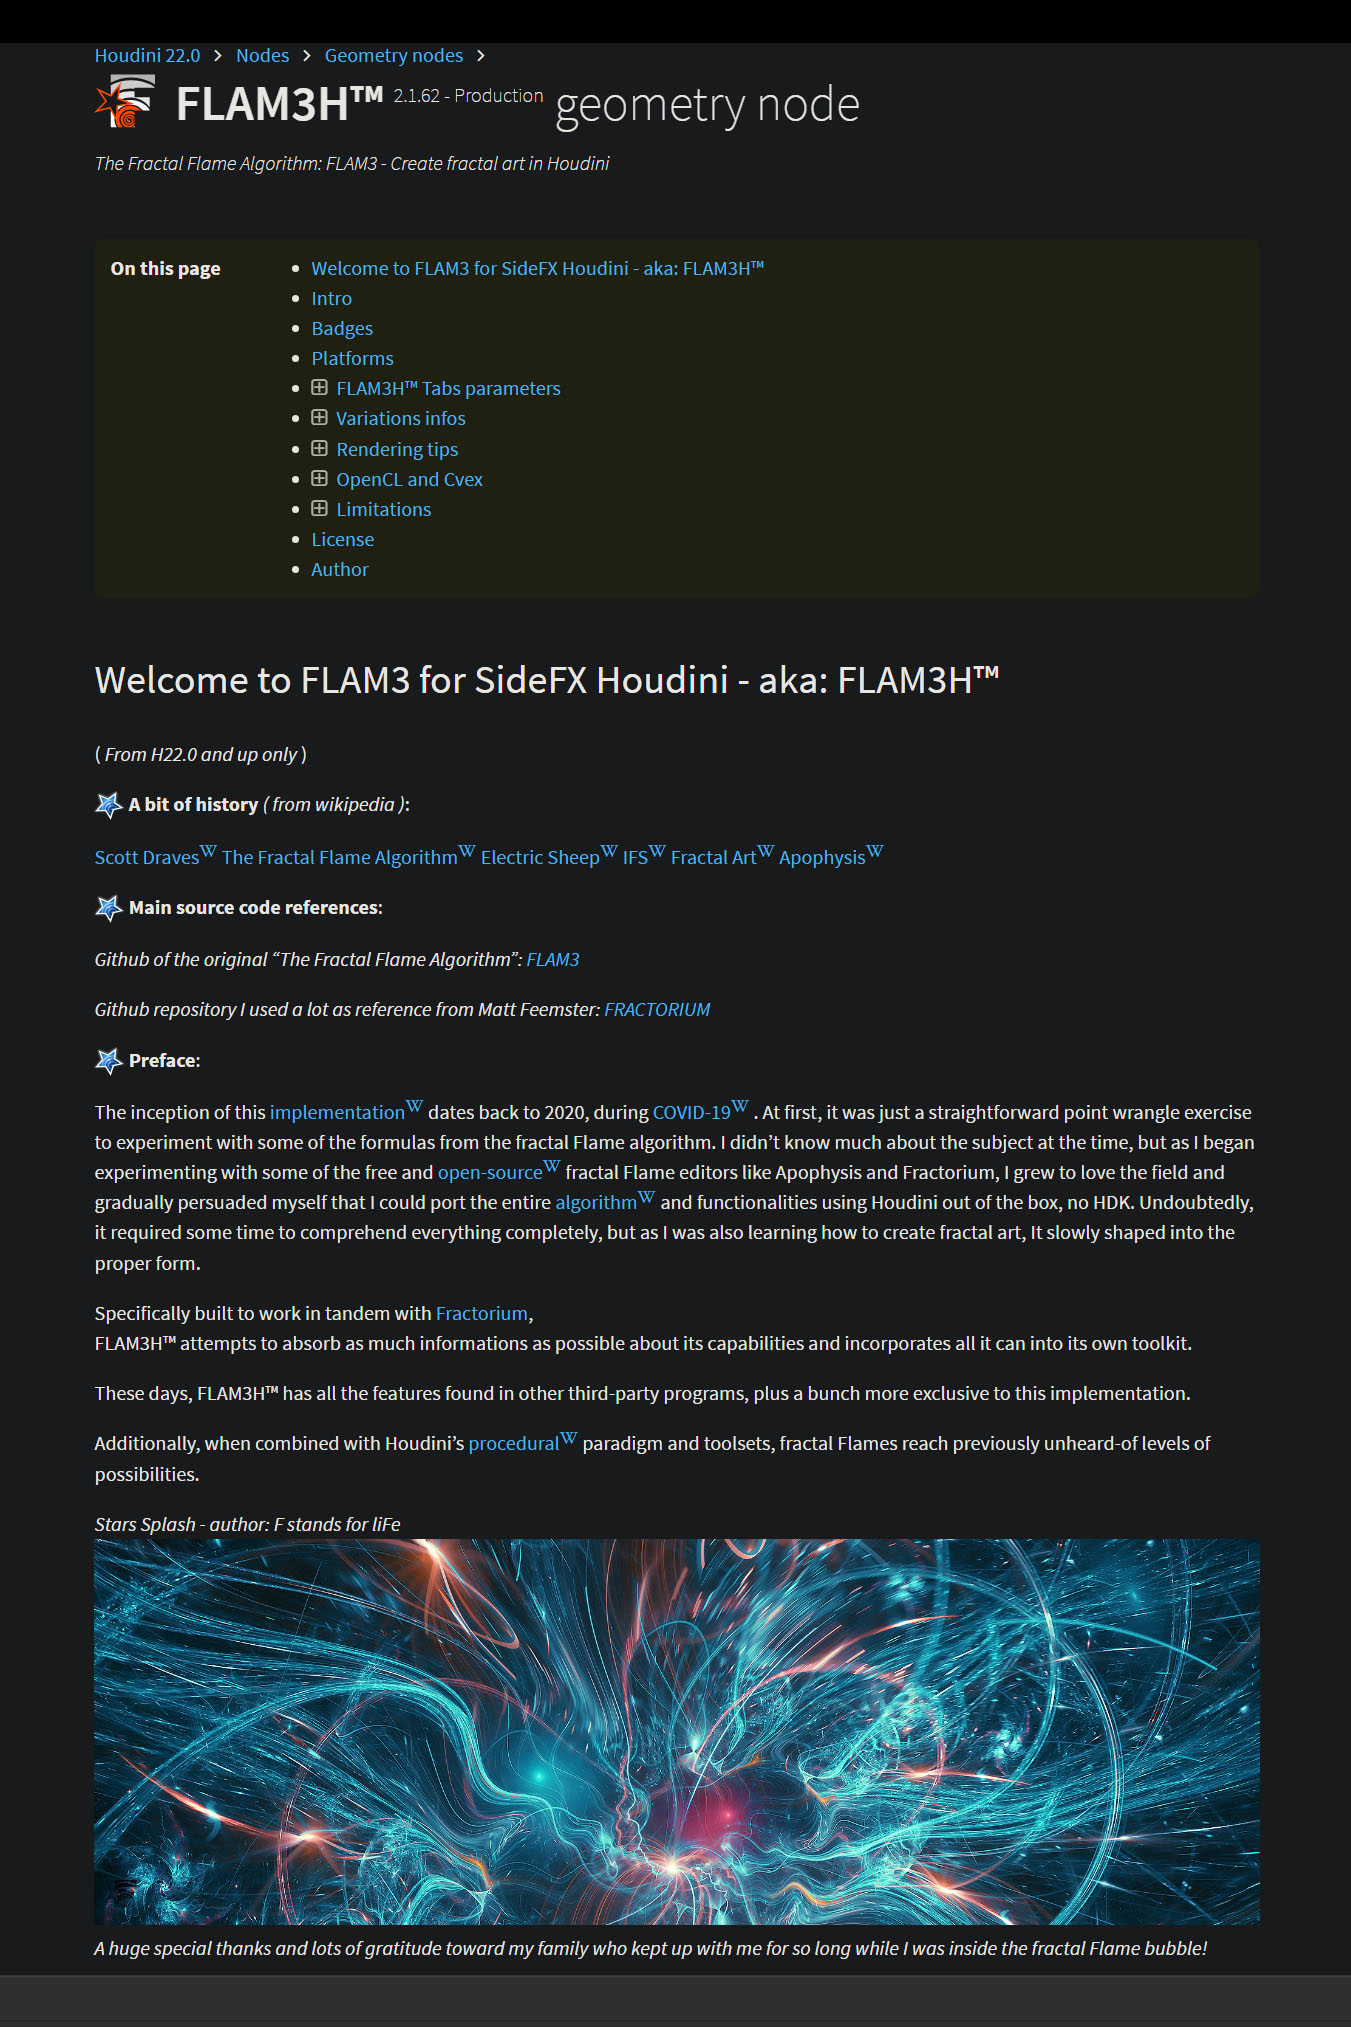
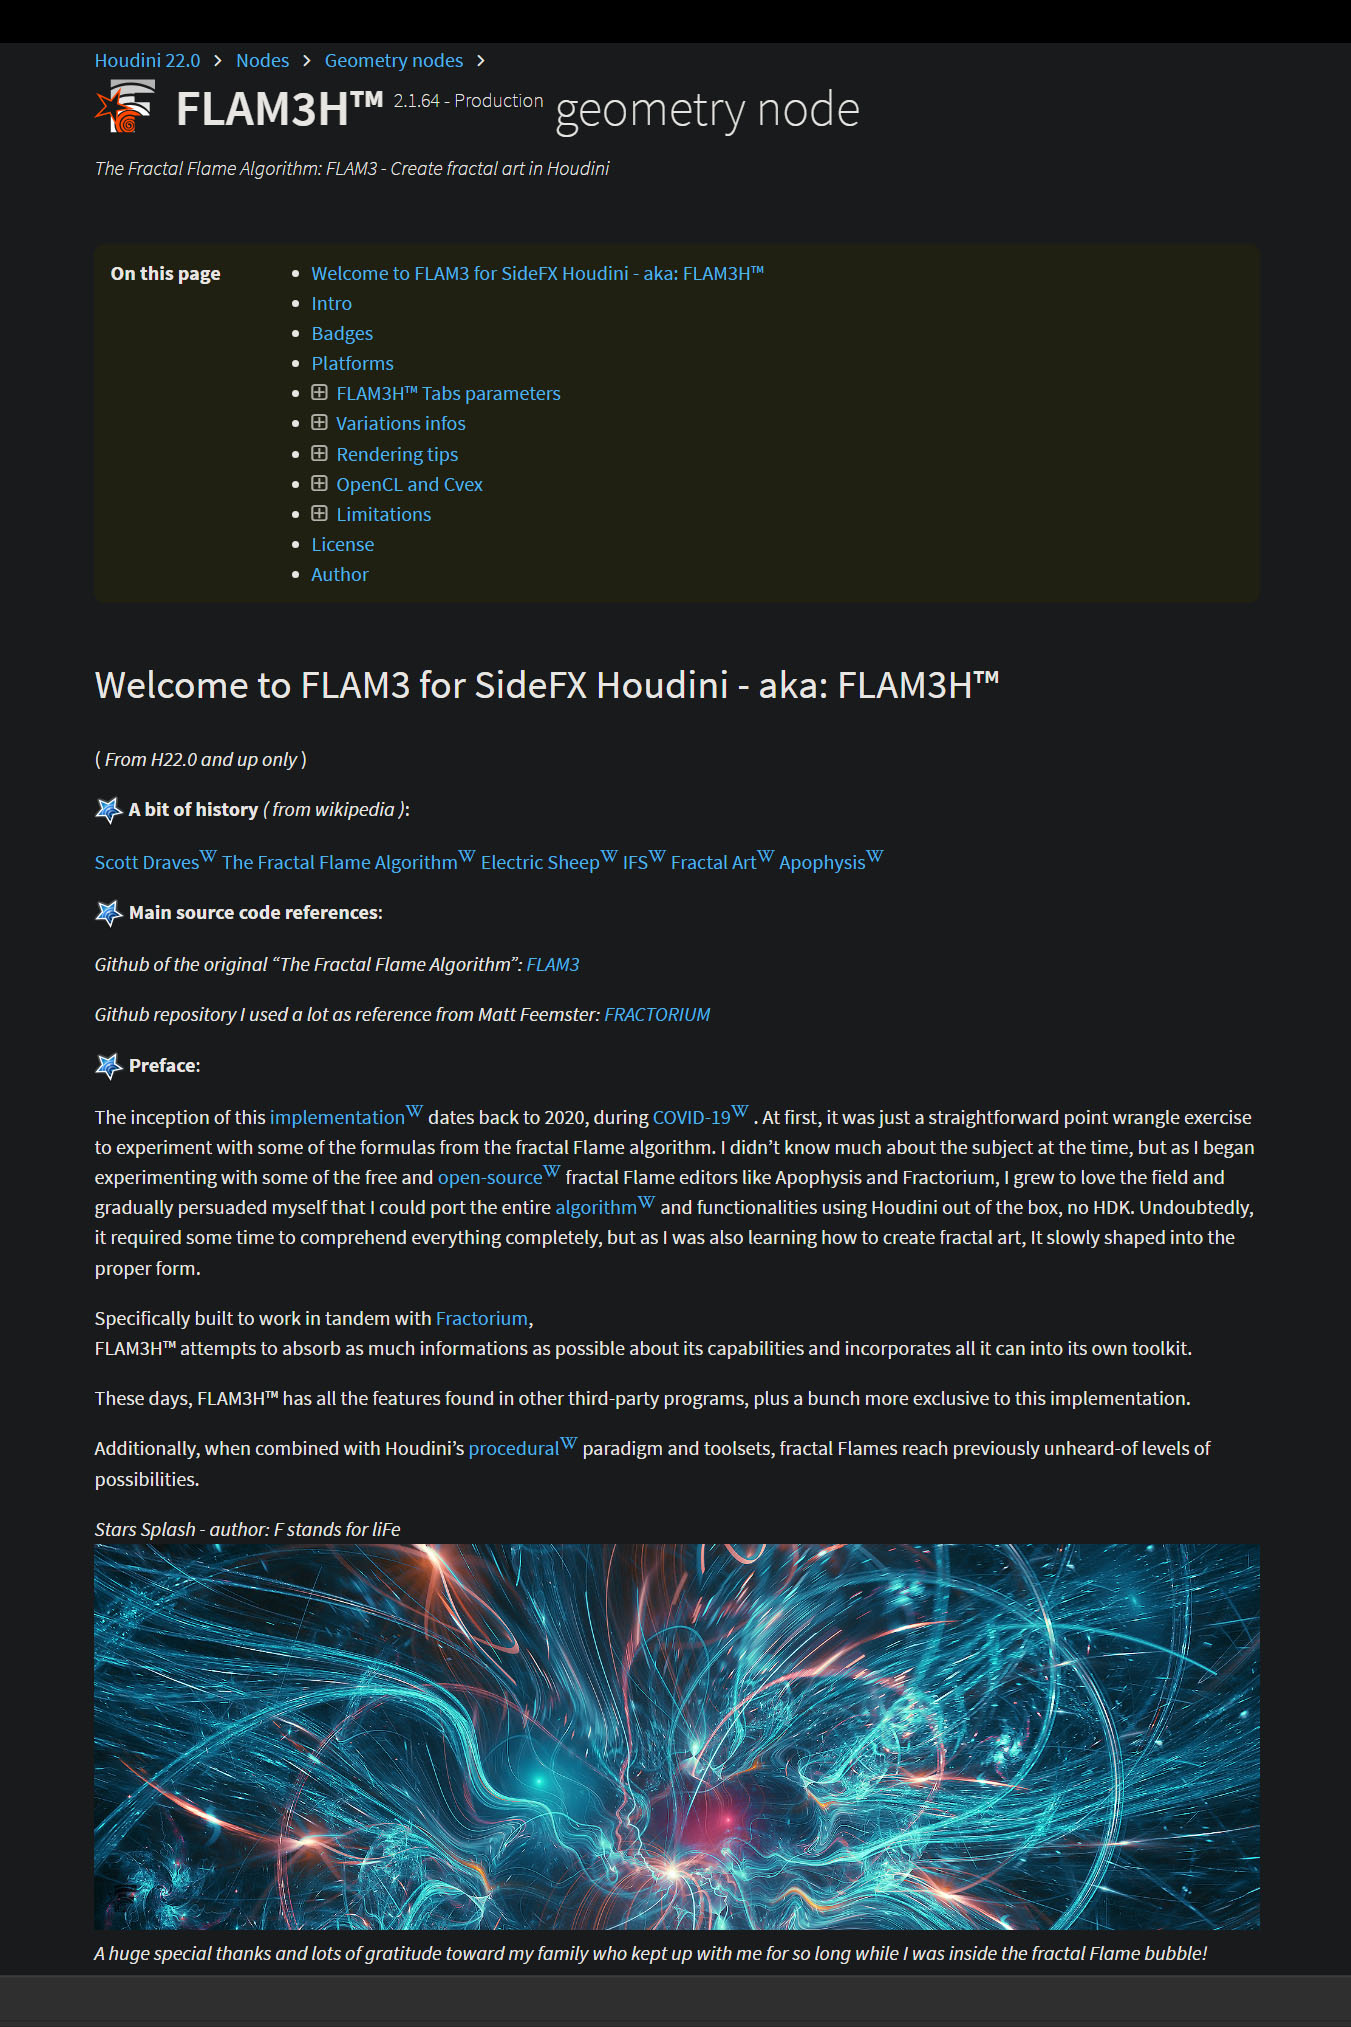
F3H-363 v2.1.64 indie (Release)

diff --git a/RELEASE_HISTORY.md b/RELEASE_HISTORY.md
@@ -51,6 +51,27 @@ They are all available in this Github repository.
 <br>
 <br>
 
+## <img width="24" height="24" src="./icons/iconSVGR.svg" /> [<ins>v2.1.64 indie</ins>](https://github.com/alexnardini/FLAM3_for_SideFX_Houdini/releases/tag/v2.1.64)  ##
+
+#### FLAM3H™ v2.1.64 indie -> H22.0 UP</br>FLAM3H™ v2.1.10 indie -> H21.0</br>FLAM3H™ v2.0.76 indie -> H20.5</br>FLAM3H™ v1.9.89 indie -> H19.0 to H20 ####
+
+_This update require a restart of Houdini to fully pickup the changes_.
+
+**Known Issue (Houdini 22.0)**: <i>`an issue in H22.0 allows parameters with a range set (unlocked) to spontaneously alter their slider ranges, affecting the UI/UX. This has been logged with SideFX` ( <u>**`#159157`**</u> ). `Development on the H22.0 branch continues. For immediate stability, please use FLAM3H™ for H21.0 version.`</i>
+
+- **Small fixes/improvements as part of an ongoing polishing pass**
+
+
+
+<br>
+<br>
+
+
+
+
+
+
+
 ## <img width="24" height="24" src="./icons/iconSVGR.svg" /> [<ins>v2.1.62 indie</ins>](https://github.com/alexnardini/FLAM3_for_SideFX_Houdini/releases/tag/v2.1.62)  ##
 
 _This is a re-release of the same version with some minor improvements that did not make it in the first attempt_.

diff --git a/src/F3H_PY_PARM_H205_to_H22_UP.md b/src/F3H_PY_PARM_H205_to_H22_UP.md
@@ -106,7 +106,7 @@ import toolutils
 
 # Set some HDA infos
 __v__ = 2
-__version__ = "2.1.62"
+__version__ = "2.1.64"
 __status__  = "Production"
 # Note:
 # The intgers contained into this __h_versions__ tuple must be Houdini version numbers composed of 3 digits:
@@ -230,7 +230,7 @@ import toolutils
 
 # Set some HDA infos
 __v__ = 2
-__version__ = "2.1.08"
+__version__ = "2.1.10"
 __status__  = "Production"
 # Note:
 # The intgers contained into this __h_versions__ tuple must be Houdini version numbers composed of 3 digits:
@@ -344,7 +344,7 @@ import toolutils
 
 # Set some HDA infos
 __v__ = 2
-__version__ = "2.0.74"
+__version__ = "2.0.76"
 __status__  = "Production"
 # Note:
 # The intgers contained into this __h_versions__ tuple must be Houdini version numbers composed of 3 digits:
